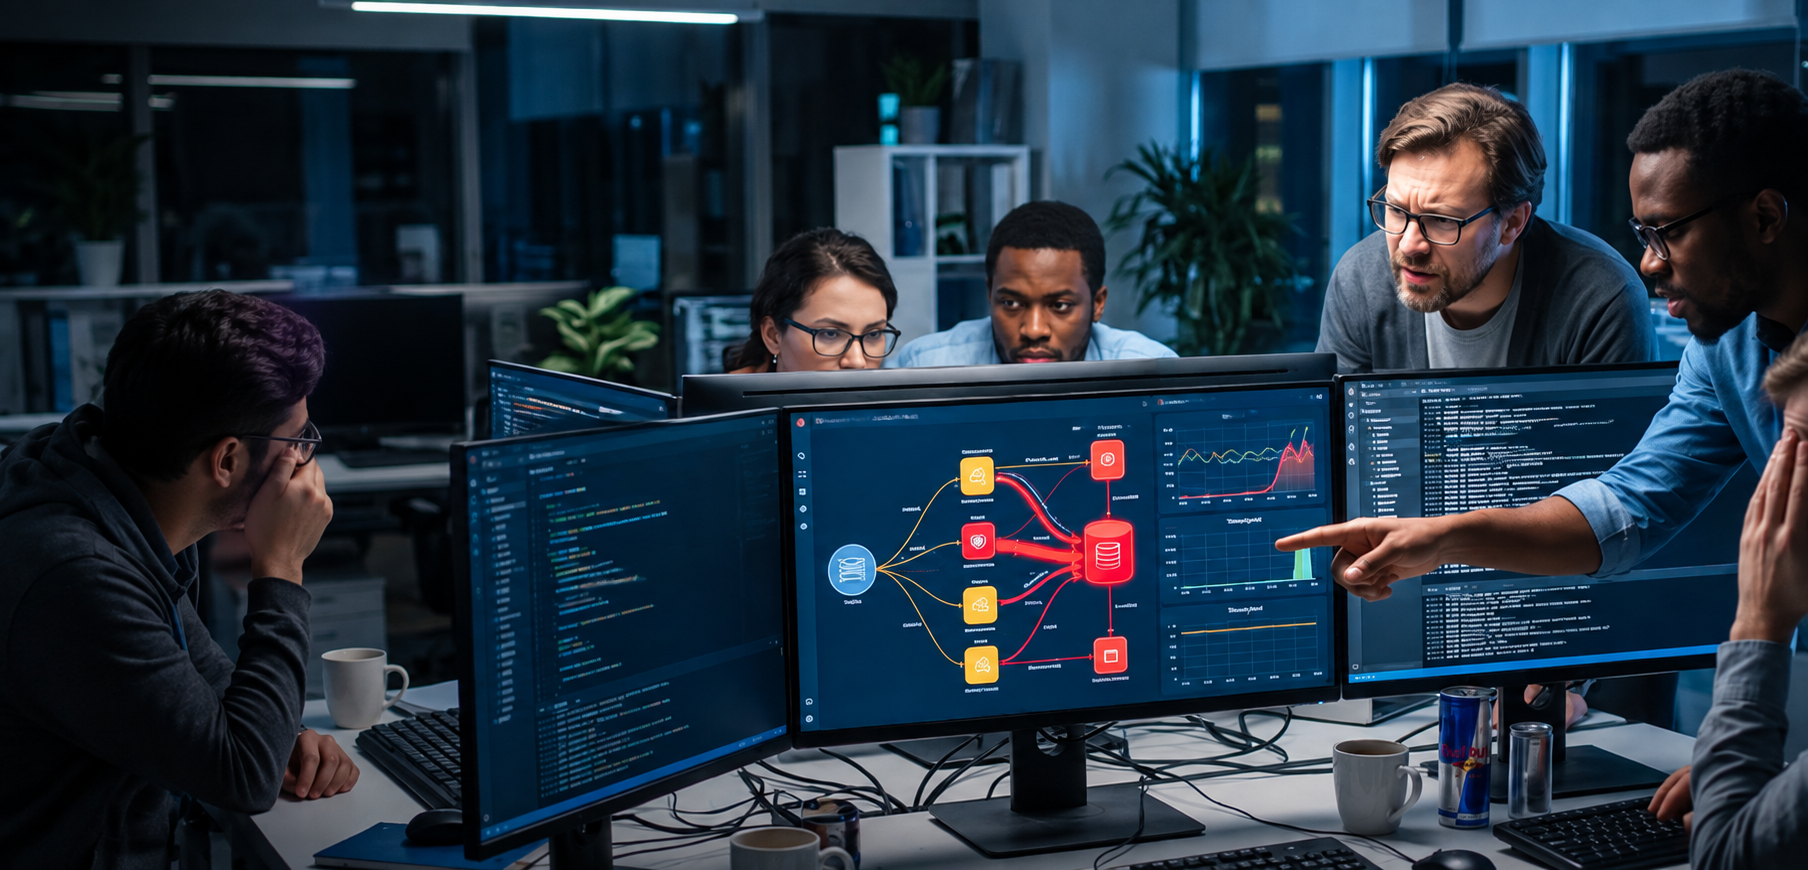
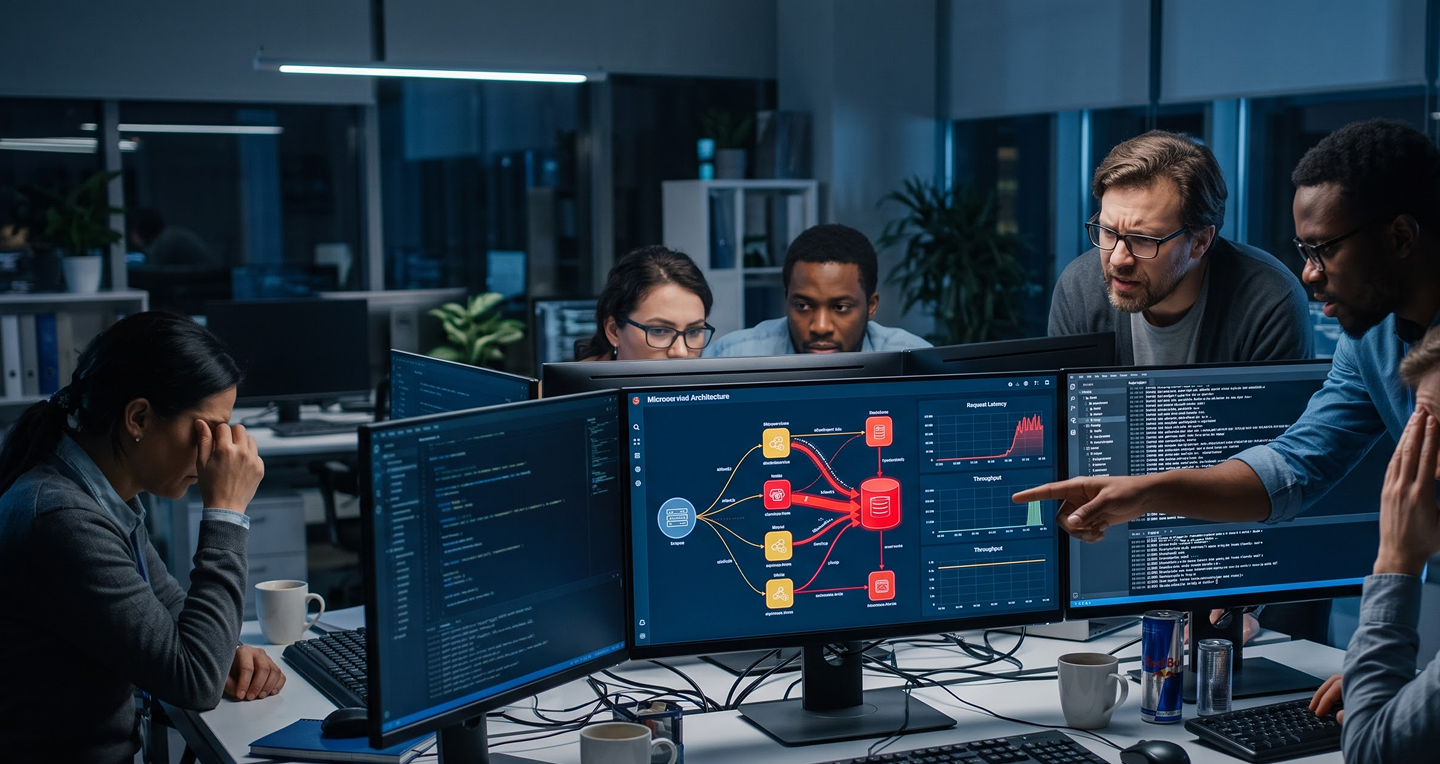
add

diff --git a/src/app/page.tsx b/src/app/page.tsx
@@ -557,17 +557,21 @@ export default function Home() {
             tool. We <br /> start with your problem. We understand that
             technology serves operations, not the reverse.
           </p>
+
           <article className="mt-16 grid w-full max-w-[1437.82px] grid-cols-1 overflow-hidden bg-black md:min-h-[409.53px] md:grid-cols-[718.91px_minmax(0,1fr)]">
-            <div className="relative min-h-[330px] overflow-hidden bg-[#d8c987] md:h-[409.53px] md:w-[718.91px]">
-              <Image
-                src="/herobgr.png"
-                alt=""
-                fill
-                className="object-contain opacity-35 mix-blend-multiply"
-              />
+            {/* LEFT IMAGE SECTION */}
+            <div className="relative min-h-[330px] overflow-hidden md:h-[409.53px] md:w-[718.91px]">
+              <Image src="/heroimg.png" alt="" fill className="object-cover" />
+
+              {/* Dark overlay */}
+              <div className="absolute inset-0 bg-black/35" />
+
+              {/* Grid */}
               <div className="absolute inset-0 bg-[linear-gradient(rgba(255,255,255,0.12)_1px,transparent_1px),linear-gradient(90deg,rgba(85,65,20,0.1)_1px,transparent_1px)] bg-[size:18px_18px]" />
+
+              {/* Orange Content Box */}
               <div className="absolute left-1/2 top-1/2 flex h-[246px] w-[548px] max-w-[calc(100%-32px)] -translate-x-1/2 -translate-y-1/2 items-center justify-center bg-[#FF884C] px-6 py-8 text-center">
-                <h3 className="font-[family-name:var(--font-sora)] text-[36px] font-[weight:400] leading-[1.15] text-[#000000]">
+                <h3 className="font-[family-name:var(--font-sora)] text-[36px] font-[400] leading-[1.15] text-[#000000]">
                   Why Hiring An Ops
                   <br />
                   Coordinator Rarely Fixes A
@@ -576,21 +580,25 @@ export default function Home() {
                 </h3>
               </div>
             </div>
+
+            {/* RIGHT CONTENT */}
             <div className="flex min-h-[330px] flex-col justify-between bg-[#010C1B] px-8 py-10 text-[#FFFFFF] md:min-h-[370px] md:px-8 md:py-11">
               <div>
-                <h3 className="max-w-[500px] font-[family-name:var(--font-sora)] text-[31px] font-[weight:400] leading-[1.15]">
+                <h3 className="max-w-[500px] font-[family-name:var(--font-sora)] text-[31px] font-[400] leading-[1.15]">
                   Why Hiring An Ops Coordinator
                   <br />
                   Rarely Fixes A Process Problem
                 </h3>
-                <time className="mt-5 block font-[family-name:var(--font-inter)] text-[10px] font-[weight:400] uppercase tracking-[0.04em] text-[#FFFFFF]">
+
+                <time className="mt-5 block font-[family-name:var(--font-inter)] text-[10px] font-[400] uppercase tracking-[0.04em] text-[#FFFFFF]">
                   August 17, 2026
                 </time>
               </div>
+
               <div className="-mx-8 w-[calc(100%+4rem)] border-t border-[#5A5A5A] px-8 pt-6">
                 <button
                   type="button"
-                  className="flex w-full items-center justify-between font-[family-name:var(--font-inter)] text-[15.4px] font-[weight:500] text-[#FFFFFF]"
+                  className="flex w-full items-center justify-between font-[family-name:var(--font-inter)] text-[15.4px] font-[500] text-[#FFFFFF]"
                 >
                   <span>Read More</span>
                   <FaArrowRightLong className="text-[14px]" />
@@ -598,6 +606,7 @@ export default function Home() {
               </div>
             </div>
           </article>
+
           <div className="mt-20 grid w-full max-w-[1437.82px] grid-cols-1 gap-x-6 gap-y-12 md:grid-cols-3">
             <article className="min-w-0 text-left text-[#FFFFFF] md:border-r md:border-[#5A5A5A] md:pr-6">
               <div className="relative aspect-[1.67] overflow-hidden bg-[#FF884C] p-[15px]">

diff --git a/src/components/subfooter/subfooter.tsx b/src/components/subfooter/subfooter.tsx
@@ -1,3 +1,5 @@
+import React from "react";
+
 interface SubFooterProps {
   className?: string;
   titleLine1?: string;
@@ -8,6 +10,9 @@ interface SubFooterProps {
   buttonText?: string;
   showRgbGlow?: boolean;
   fullBackgroundImage?: boolean;
+  backgroundImageSide?: "left" | "right";
+  stretchBackgroundImage?: boolean;
+  backgroundImageAtBottom?: boolean;
 }
 
 export function SubFooter({
@@ -25,6 +30,9 @@ export function SubFooter({
   buttonText = "Request an Operational Audit",
   showRgbGlow = true,
   fullBackgroundImage = false,
+  backgroundImageSide = "right",
+  stretchBackgroundImage = false,
+  backgroundImageAtBottom = false,
 }: SubFooterProps) {
   return (
     <section
@@ -37,18 +45,22 @@ export function SubFooter({
         .join(" ")}
     >
       {/* ============================================ */}
-      {/* RIGHT SIDE BACKGROUND IMAGE */}
+      {/* BACKGROUND IMAGE */}
       {/* ============================================ */}
 
       <div
         className={`pointer-events-none absolute ${
           fullBackgroundImage
             ? "inset-0 h-full w-full"
-            : "right-0 -top-[80px] h-[calc(100%+80px)] w-[55%]"
-        }`}
+            : `${backgroundImageSide === "left" ? "left-0" : "right-0"} ${
+                backgroundImageAtBottom
+                  ? "top-[80px] h-[calc(100%-80px)]"
+                  : "-top-[80px] h-[calc(100%+80px)]"
+              } w-[55%]`
+        } operational-subfooter-image`}
         style={{
           backgroundImage: `url("${backgroundImage}")`,
-          backgroundSize: "cover",
+          backgroundSize: stretchBackgroundImage ? "100% 100%" : "cover",
           backgroundPosition: fullBackgroundImage
             ? "center -48px"
             : "center top",
@@ -79,15 +91,15 @@ export function SubFooter({
           className="pointer-events-none absolute bottom-[-210px] left-1/2 z-[2] h-[480px] w-[1200px] -translate-x-1/2 rounded-full blur-[90px]"
           style={{
             background: `
-            radial-gradient(
-              ellipse at center,
-              rgba(0, 102, 255, 0.60) 0%,
-              rgba(0, 102, 255, 0.38) 25%,
-              rgba(0, 102, 255, 0.18) 45%,
-              rgba(0, 102, 255, 0.06) 62%,
-              rgba(0, 102, 255, 0) 78%
-            )
-          `,
+              radial-gradient(
+                ellipse at center,
+                rgba(0, 102, 255, 0.60) 0%,
+                rgba(0, 102, 255, 0.38) 25%,
+                rgba(0, 102, 255, 0.18) 45%,
+                rgba(0, 102, 255, 0.06) 62%,
+                rgba(0, 102, 255, 0) 78%
+              )
+            `,
           }}
         />
       )}
@@ -101,14 +113,14 @@ export function SubFooter({
           className="pointer-events-none absolute bottom-0 left-0 right-0 z-[2] h-[220px]"
           style={{
             background: `
-            linear-gradient(
-              to top,
-              rgba(0, 102, 255, 0.20) 0%,
-              rgba(0, 102, 255, 0.10) 30%,
-              rgba(0, 102, 255, 0.03) 65%,
-              rgba(0, 102, 255, 0) 100%
-            )
-          `,
+              linear-gradient(
+                to top,
+                rgba(0, 102, 255, 0.20) 0%,
+                rgba(0, 102, 255, 0.10) 30%,
+                rgba(0, 102, 255, 0.03) 65%,
+                rgba(0, 102, 255, 0) 100%
+              )
+            `,
           }}
         />
       )}

diff --git a/src/app/services/operational-discovery/page.tsx b/src/app/services/operational-discovery/page.tsx
@@ -189,7 +189,25 @@ export default function OperationalDiscoveryPage() {
           </div>
         </section>
 
-        <SubFooter className="w-full " />
+        <SubFooter
+          className="w-full operational-subfooter"
+          titleLine1="Ready to understand where"
+          titleLine2="your operational"
+          titleHighlight=" friction lives?"
+          backgroundImage="/subbg1.png"
+          showRgbGlow={false}
+          fullBackgroundImage={false}
+          backgroundImageSide="right"
+          stretchBackgroundImage
+          backgroundImageAtBottom
+          description={
+            <>
+              Start your discovery today. We deliver a decision-ready roadmap in <br />
+              four weeks — no vendor bias, no guesswork.
+            </>
+          }
+          buttonText="Build Your BI Strategy"
+        />
       </main>
 
       <GobirdFooter />
